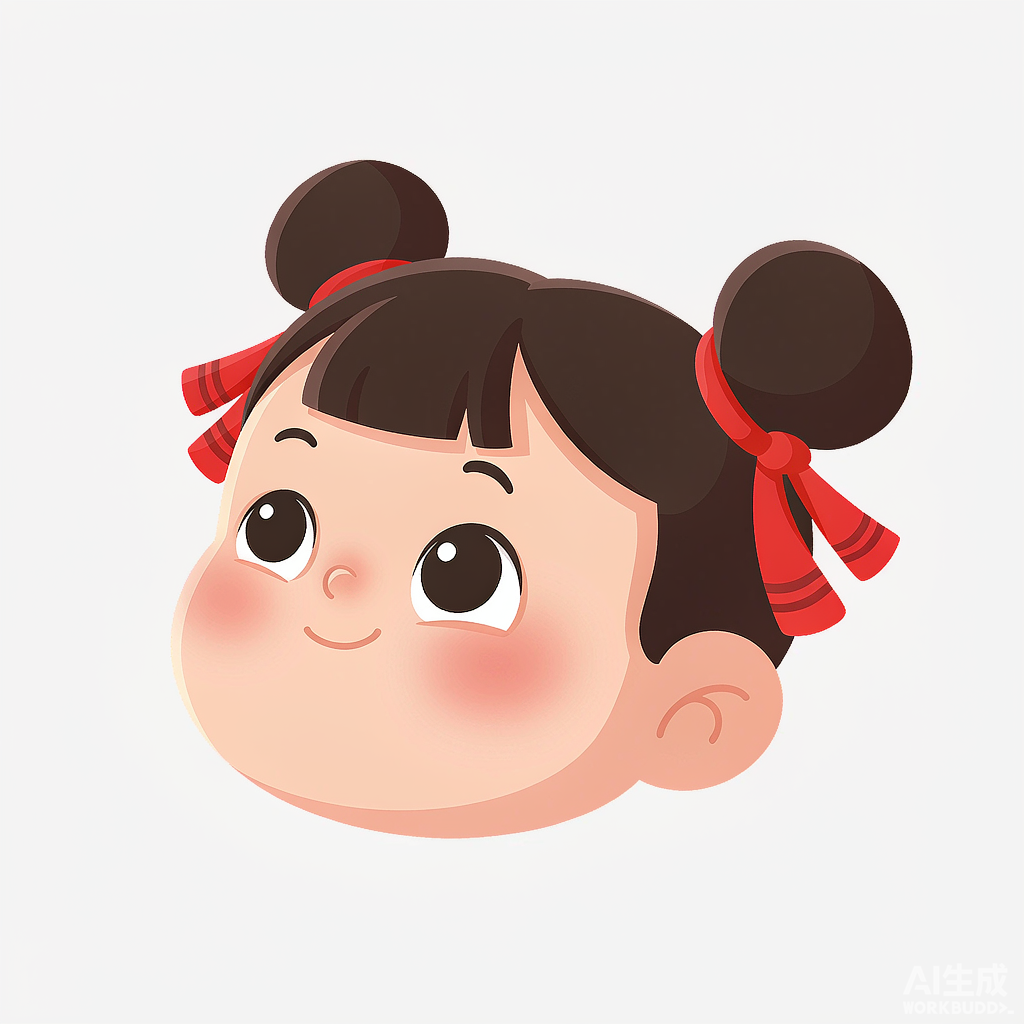
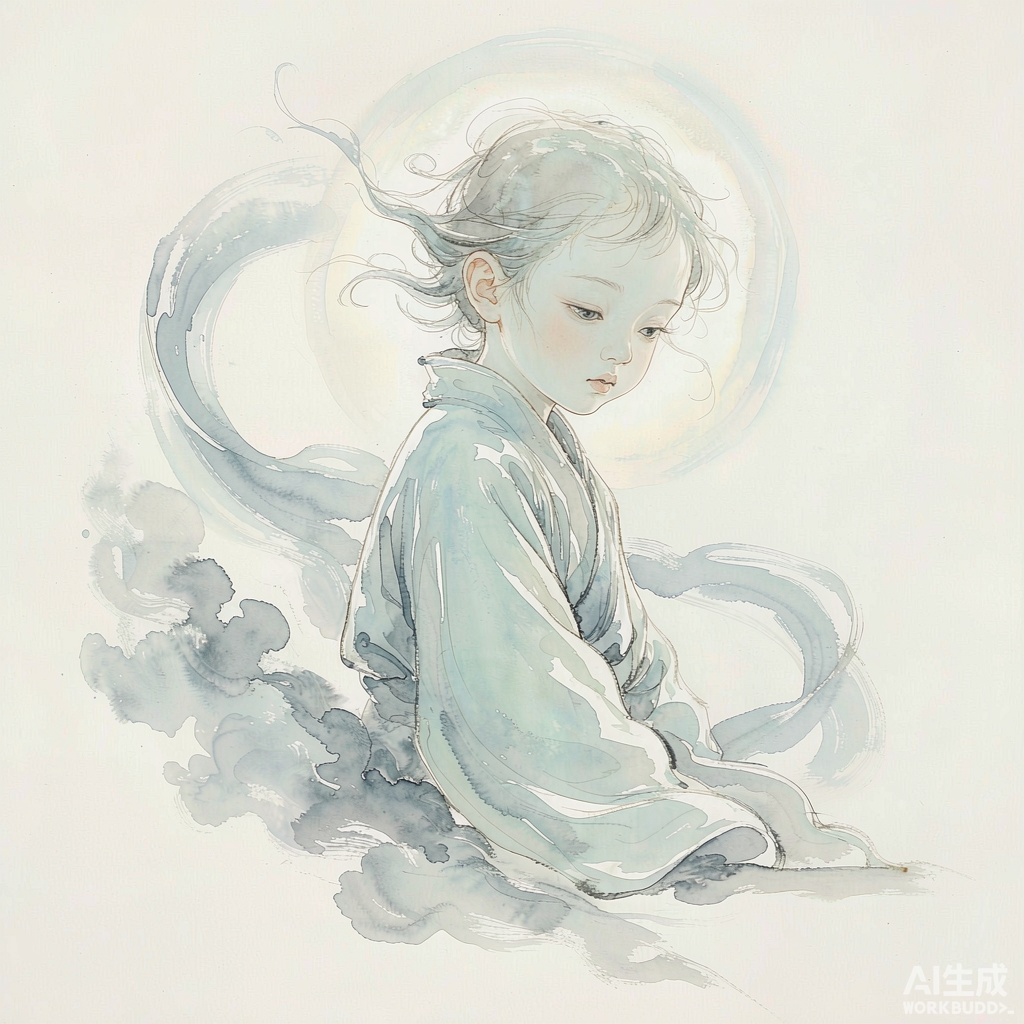
09-26f 头像终版'上档次': 空灵水墨仙童底图(meihua2, 月轮/飘带/云雾, 与产品水墨主题同源) + 瓷盘展陈式呈现(宣纸白圆盘/鎏金双环/悬浮投影/水印裁切) + 底图版本参数防缓存

diff --git a/sfu/public/style.css b/sfu/public/style.css
@@ -2377,3 +2377,43 @@ body.rd-mode { overflow: hidden; }
 /* 成员行小头像 speaking 金环脉冲 */
 .ai-av.speaking { animation: aiRingPulse 1.2s ease-in-out infinite; }
 @keyframes aiRingPulse { 0%, 100% { box-shadow: 0 0 0 2px var(--accent-border); } 50% { box-shadow: 0 0 0 4px rgba(216, 179, 106, .5); } }
+
+/* ── 09-26f "上档次"终版：空灵水墨仙童 + 瓷盘展陈式呈现 ──
+   底图换 meihua2 的空灵水墨仙童(自带月轮/飘带/云雾,气质与本产品水墨主题同源);
+   呈现 = 深色格子中央一枚"瓷盘"(宣纸白圆底内嵌画作,外圈鎏金细环),如博物馆展陈;
+   底图放大裁掉右下水印;动效体系(呼吸/声波/泡泡)沿用。 */
+.ai-tile .ai-face {
+  width: 100%;
+  height: 100%;
+  border-radius: 50%;
+  object-fit: cover;
+  object-position: 46% 22%;          /* 聚焦脸部,底部水印裁出视野 */
+  transform: scale(1.18);
+  border: none;
+  box-shadow: none;
+}
+.ai-tile .ai-face-wrap {
+  position: absolute; inset: 0;
+  display: grid; place-items: center;
+  background:
+    radial-gradient(circle at 50% 40%, #f7f3ea 0%, #efe9dc 58%, #e2d9c6 100%);
+  border-radius: 50%;
+  overflow: hidden;                   /* 圆形瓷盘裁形 */
+  box-shadow:
+    0 0 0 1px rgba(216, 179, 106, .35),
+    0 0 0 8px rgba(216, 179, 106, .06),
+    0 14px 34px rgba(6, 4, 2, .5);
+  width: 82%;
+  aspect-ratio: 1;
+  animation: aiFaceBreathe 4.2s ease-in-out infinite;
+}
+.ai-tile.speaking .ai-face-wrap {
+  box-shadow:
+    0 0 0 1px rgba(216, 179, 106, .5),
+    0 0 0 10px rgba(216, 179, 106, .1),
+    0 0 34px rgba(216, 179, 106, .3);
+}
+.ai-tile.thinking .ai-face-wrap { filter: brightness(.94); }
+.ai-tile.happy .ai-face { filter: saturate(1.06) brightness(1.03); }
+.ai-av { background: #f2ede1; border-radius: 50%; overflow: hidden; }
+.ai-av img { width: 100%; height: 100%; object-fit: cover; object-position: 46% 20%; transform: scale(1.22); display: block; }

diff --git a/sfu/public/client.js b/sfu/public/client.js
@@ -3058,7 +3058,7 @@ function renderMembers(members) {
       row.classList.add('ai-bot-row');
       const note = botHearingNote();   // 由最近一次快照/字幕事件维护的活状态
       row.classList.add('has-av');
-      row.innerHTML = `<span class="ai-av"><img src="/avatars/ai/face-256.png" alt=""></span>`
+      row.innerHTML = `<span class="ai-av"><img src="/avatars/ai/face-256.png?v=2" alt=""></span>`
         + `<span class="m-id">${ICONS.bot} ${escapeHtml(m.name || 'AI 小明')}`
         + `<span class="m-bot-note" title="AI 助理的实时状态">${escapeHtml(note)}</span></span>`;
       aiAvatar.rowEl = row.querySelector('.ai-av'); // ★ 09-26：状态机刷新时换五态图
@@ -4631,7 +4631,7 @@ function syncAiTile(present) {
     aiTileEl.className = 'video-box ai-tile';
     const waves = '<div class="ai-waves">' + '<i></i>'.repeat(7) + '</div>';
     aiTileEl.innerHTML =
-      '<div class="ai-face-wrap"><img class="ai-face" src="/avatars/ai/face-256.png" alt="AI 小明"></div>' +
+      '<div class="ai-face-wrap"><img class="ai-face" src="/avatars/ai/face-256.png?v=2" alt="AI 小明"></div>' +
       waves +
       '<div class="ai-speech" aria-live="polite"></div>' +
       '<div class="video-label">AI 小明<span class="ai-status">聆听中…</span></div>';

diff --git a/LEARN.md b/LEARN.md
@@ -3043,3 +3043,14 @@ roomToken = base64url(JSON{room, iat, exp}) + "." + base64url(hmacSHA256(payload
   最近字幕生成邀请性发言，无 key 用模板)；`lastActivity` 由 chat-message 刷新；
   格子开关(ai-warm 信令)全房一致。**打扰边界**：默认开但可一键关——AI 主动
   说话是双刃剑，开关必须交给用户。
+
+#### 5.28.3 ★ 09-26f "上档次"终版：空灵水墨仙童 + 瓷盘展陈
+
+- v3(SVG 精修)与 v4 初版(可爱风)两轮都被否——复盘:**"可爱"与"上档次"是两条
+  路线**,用户要的是后者。终版选 meihua2 的**空灵水墨仙童**(月轮/飘带/云雾/留白),
+  与本产品"水墨丹青"主题同源——高级感来自**气质统一**,不来自元素堆砌。
+- **呈现方式 = 瓷盘展陈**:深色格子中央一枚宣纸白圆盘(径向渐变纸色),画作内嵌
+  其中,外圈鎏金双环细边,下方投影悬浮——像博物馆展柜里被灯光打亮的一件瓷器。
+  底图放大 1.18 倍把右下 AI 水印裁出视野(object-position 聚焦脸部)。
+- **实修小坑**:换底图后浏览器仍显示旧图(HTTP 缓存)——静态资源加 `?v=2`
+  版本参数突破;**给会变的资源留版本参数位**是 SW 时代的基本卫生。
